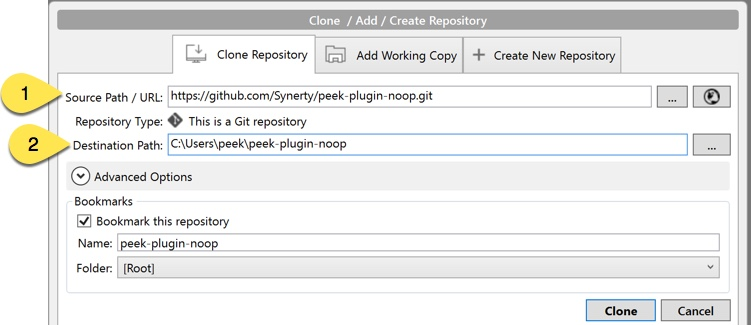
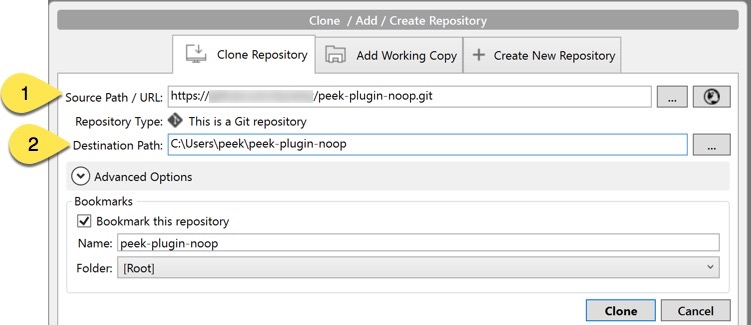
instructions for bitbucket
ORMOB-171

Changed region(s): [[0.2756, 0.2769, 0.4288, 0.3385]]

diff --git a/docs/develop_plugins/DevelopPeekPlugins.rst b/docs/develop_plugins/DevelopPeekPlugins.rst
@@ -4,6 +4,18 @@
 Develop Peek Plugins
 ====================
 
+Synerty recommend:
+
+Bitbucket to manage and share your Git repositories
+
+:URL: `<https://bitbucket.org>`_
+
+SourceTree GUI to visually manage and interact with your Git repositories
+
+:URL: `<https://www.sourcetreeapp.com>`_
+
+|
+
 Creating Peek Plugin
 --------------------
 
@@ -13,6 +25,10 @@ Clone and Copy peek-plugin-noop
 ```````````````````````````````
 
 :Clone: `<https://github.com/Synerty/peek-plugin-noop.git>`_
+
+Go to, peek-plugin-noop repository on Bitbucket
+
+.. image:: DevPlugin-CloneSTree.jpg
 
 ----
 
@@ -61,7 +77,7 @@ Create new repository on GitHub.
 
 Your link will look something like: ::
 
-        https://github.com/synerty/example.git
+        https://{account username}@bitbucket.org/{account username}/example.git
 
 ----
 
@@ -90,9 +106,6 @@ Push your changes: ::
 
 Edit Existing Plugin
 --------------------
-
-You will need to already have a GitHub account to create a fork of the plugin(s) you plan
-to edit.
 
 Fork and Clone plugin
 `````````````````````
